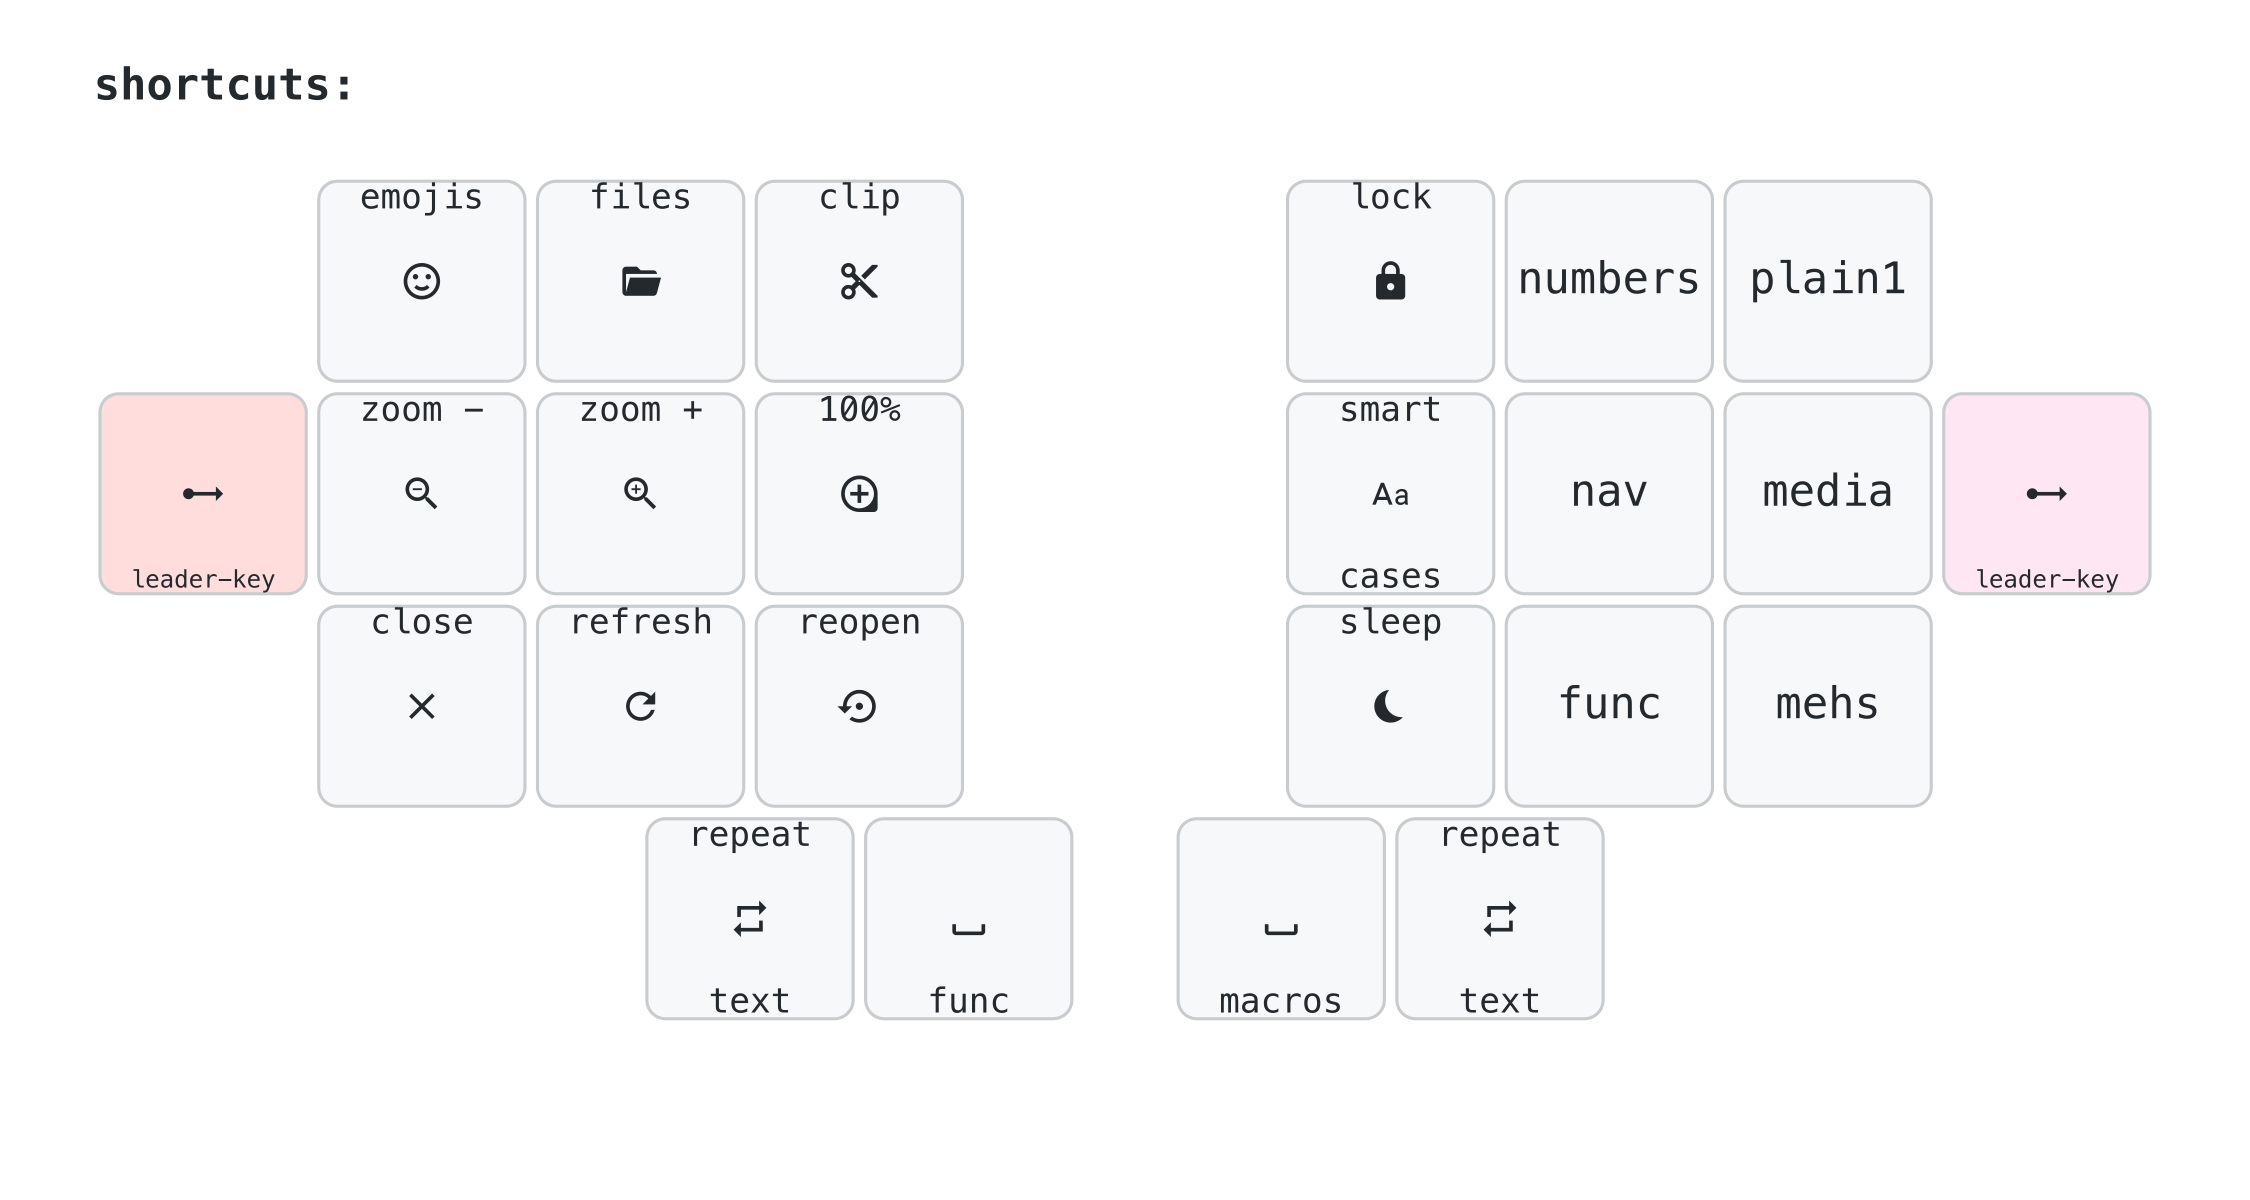
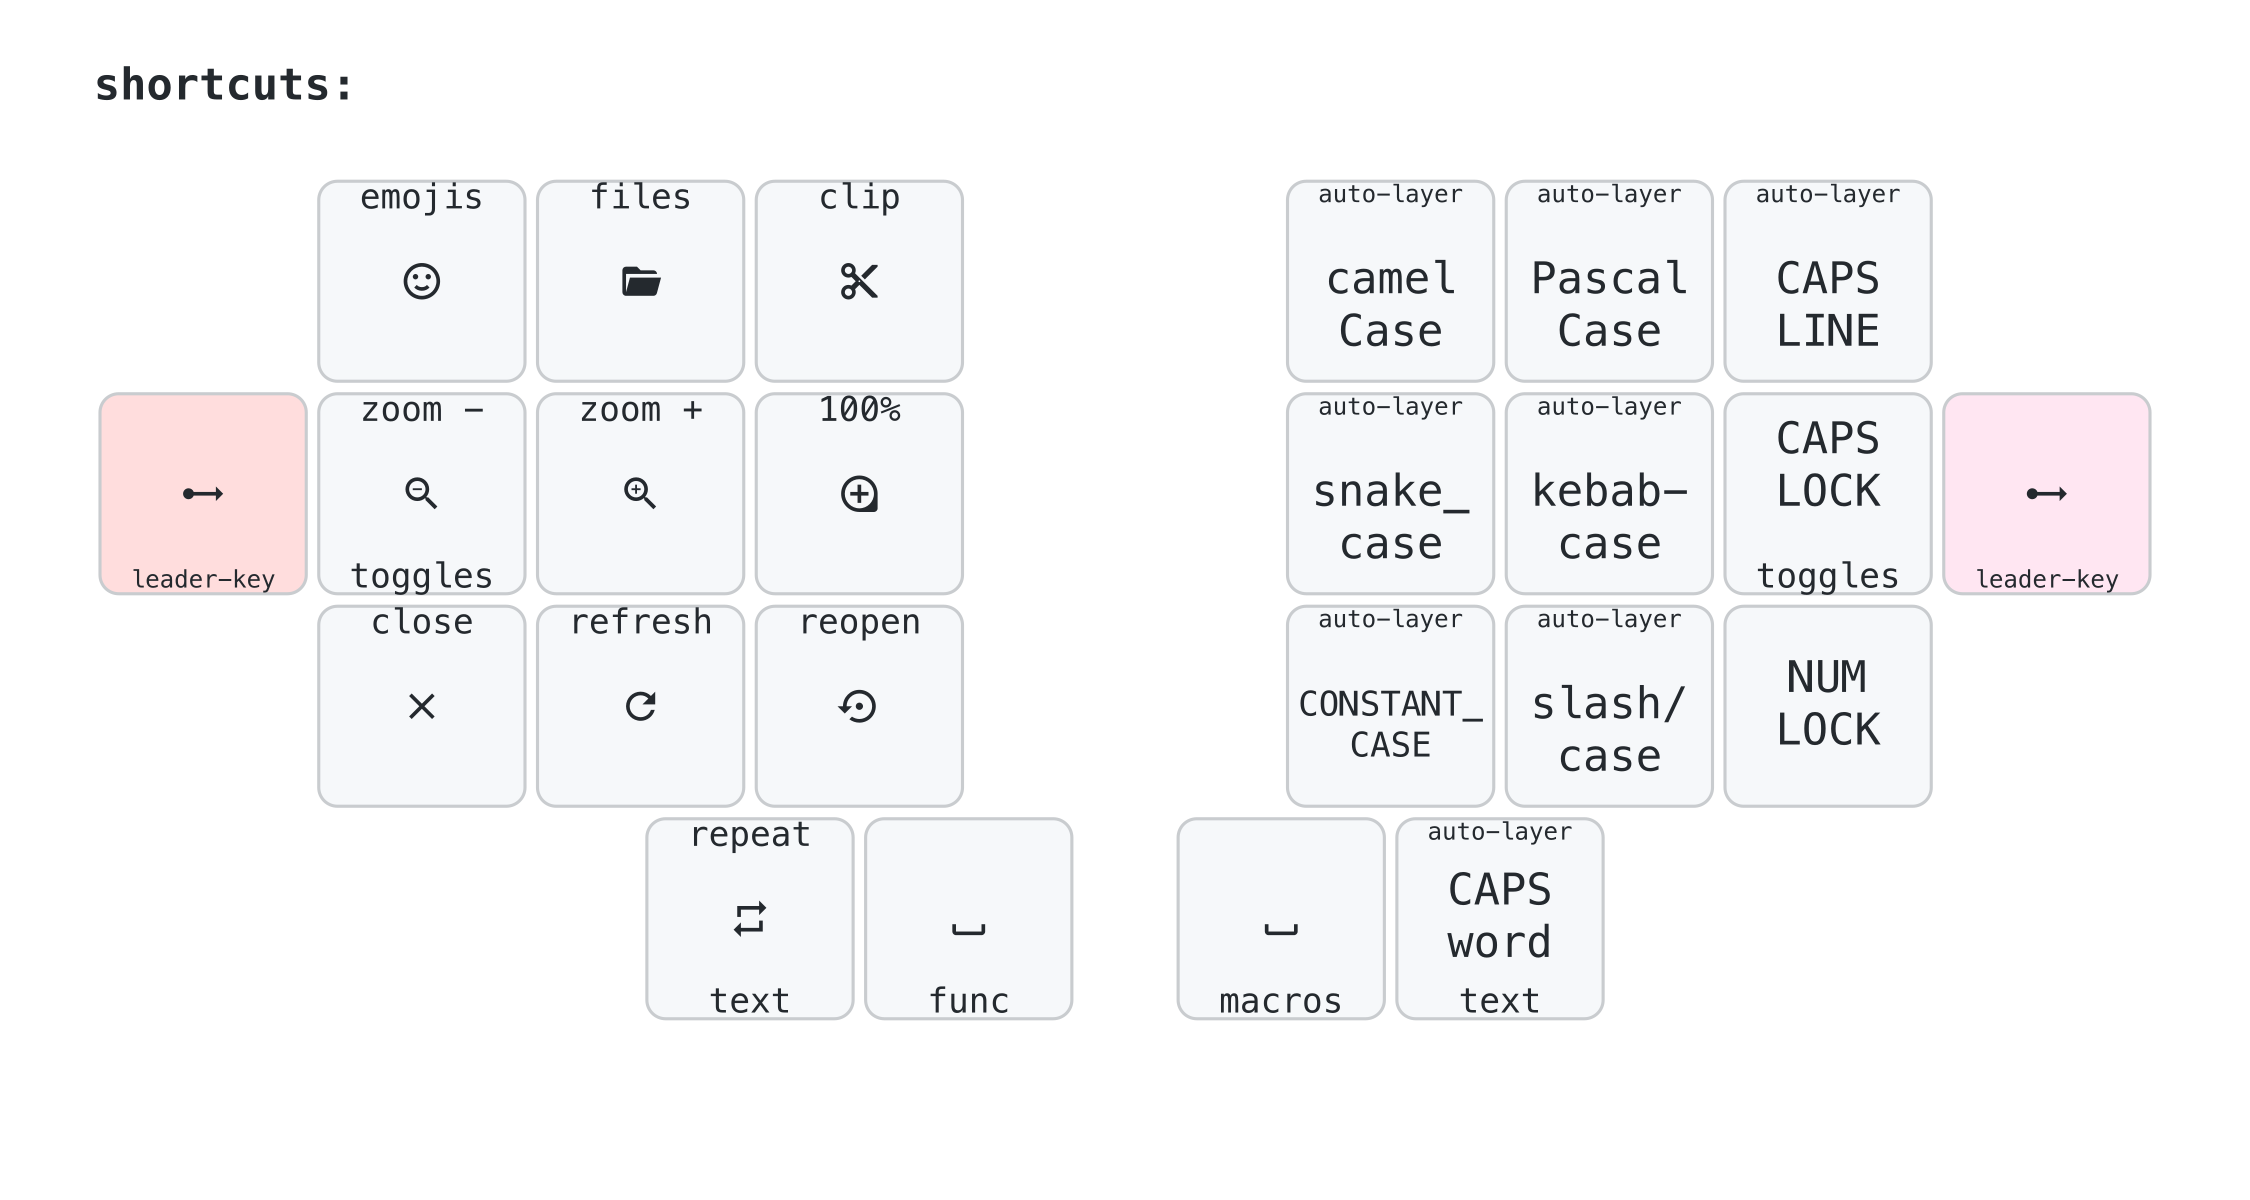
simplify activation of smart cases

diff --git a/docs/index.pt.md b/docs/index.pt.md
@@ -127,7 +127,7 @@ Devido a uma limitação do ZMK, uma *camada aderente* não funciona bem em conj
 
 ### CAPS word e CAPS LINE
 
-*CAPS word* é um comportamento que funciona como o Caps Lock tradicional, mas será desativado automaticamente quando a palavra atual terminar. Pode ser ativado apertando duas vezes na tecla *Shift Aderente* ou através da Camada *cases*.
+*CAPS word* é um comportamento que funciona como o Caps Lock tradicional, mas será desativado automaticamente quando a palavra atual terminar. Pode ser ativado apertando duas vezes na tecla *Shift Aderente* ou através da Camada *shortcuts*.
 
 *CAPS LINE* está entre o *CAPS word* e o Caps Lock tradicional, pois também será desativado automaticamente, mas apenas quando a linha atual terminar, geralmente com a tecla Enter.
 
@@ -208,8 +208,6 @@ Nesta camada, ou enquanto segura *meh* na camada base, acessar a versão Hyper d
 
 Segurar qualquer uma das teclas mindinhas ativará a camada de *atalhos*, que dá acesso a atalhos comuns como abrir o explorador de arquivos, tirar uma captura de tela e gerenciar o zoom e as abas em um navegador.
 
-Também permitirá que algumas camadas sejam ativadas permanentemente, como as camadas de *números*, *navegação* e *mídia*.
-
 ![img](img/diagrams/shortcuts.png)
 
 ### Combos de Atalhos Comuns
@@ -219,6 +217,16 @@ Atalhos comuns também podem ser ativados usando combos, na maioria das camadas.
 Eles permitem ações como copiar, colar, selecionar tudo, enter, tab, entre outras.
 
 ![img](img/diagrams/shortcutcombos.png)
+
+### Capitalização Inteligente
+
+Capitalizações Inteligentes são modos de digitação especiais onde o `espaço` é substituído por `-` ou `_`, por exemplo, para digitar coisas como nomes de métodos, nomes de variáveis, nomes de constantes e assim por diante, suportando as capitalizações mais comuns, como CONSTANT_CASE, kebab-case, camelCase, PascalCase e slash/case.
+
+Quando uma Capitalização Inteligente está ativa, pressionar espaço duas vezes seguidas a desativará, e o segundo espaço será ignorado.
+
+As Capitalizações Inteligentes também estão disponíveis através da camada *shortcuts*.
+
+![img](img/diagrams/shortcuts.png)
 
 ### Atalhos de Navegação
 
@@ -238,12 +246,6 @@ Sempre que possível, uso os atalhos padrão em meus teclados, mas em alguns cas
 
 No MacOS, eu uso uma combinação de [Hammerspoon](https://www.hammerspoon.org/) e [Better Touch Tool](https://folivora.ai/) para interceptar os atalhos enviados pelos meus teclados para o host. Linux e Windows são menos usados, então eu apenas mapeio alguns atalhos lá.
 
-### Macros
-
-Há uma camada *macros*, dedicada a Macros que dão acesso a blocos de texto e comandos recorrentes.
-
-![img](img/diagrams/macros.png)
-
 ### Leader Key
 
 A *Leader Key* está disponível através de um módulo externo, [zmk-leader-key](https://github.com/urob/zmk-leader-key), e permite que macros sejam acionadas através de uma sequência de teclas.
@@ -251,6 +253,18 @@ A *Leader Key* está disponível através de um módulo externo, [zmk-leader-key
 A *Leader Key* está disponível na camada de *atalhos*.
 
 ![img](img/diagrams/shortcuts.png)
+
+## Toggles
+
+A partir da camada de *shortcuts*, a camada de *toggles* pode ser ativada. Ela permite que algumas camadas sejam ativadas permanentemente, como as camadas de *numbers*, *nav* e *media*.
+
+Esta camada também oferece atalhos convenientes para *lock* o computador ou colocá-lo em *sleep*.
+
+## Macros
+
+Há uma camada *macros*, dedicada a Macros que dão acesso a blocos de texto e comandos recorrentes.
+
+![img](img/diagrams/macros.png)
 
 ## Navegação
 
@@ -365,9 +379,9 @@ Na camada de *símbolos*, muitos símbolos foram posicionados considerando como 
 
 ![img](img/diagrams/symbols.png)
 
-E, finalmente, existem algumas macros definidas especificamente para o VIM na minha camada *cases*, também fáceis de acionar usando apenas a mão direita.
+E, finalmente, existem algumas macros definidas especificamente para o VIM na minha camada *macros*, também fáceis de acionar usando apenas a mão direita.
 
-![img](img/diagrams/cases.png)
+![img](img/diagrams/macros.png)
 
 ### Navegação de Diretório
 
@@ -386,16 +400,6 @@ Meus atalhos mais usados no IntelliJ IDEA foram remapeados para usar também os 
 
 ![img](img/diagrams/coding-mehs.png)
 
-### Capitalização Inteligente
-
-Capitalizações Inteligentes são modos de digitação especiais onde o `espaço` é substituído por `-` ou `_`, por exemplo, para digitar coisas como nomes de métodos, nomes de variáveis, nomes de constantes e assim por diante, suportando as capitalizações mais comuns, como CONSTANT_CASE, kebab-case, camelCase, PascalCase e slash/case.
-
-As Capitalizações Inteligentes estão disponíveis através da camada *cases* e podem ser ativadas segurando a principal tecla do polegar direito e a tecla mindinha direita e apertando na tecla equivalente do lado esquerdo. Esses comportamentos foram projetados para serem rápidos de ativar.
-
-Quando uma Capitalização Inteligente está ativa, pressionar espaço duas vezes seguidas a desativará, e o segundo espaço será ignorado.
-
-![img](img/diagrams/cases.png)
-
 # Geral
 
 ## Modo Pânico
@@ -412,7 +416,7 @@ Os controles de Bluetooth estão disponíveis na camada de funções e permitem 
 
 A maioria das minhas placas tem um botão de reset físico de fácil acesso, mas nem todas. E mesmo para aquelas, às vezes será mais fácil usar um atalho para colocar a placa em modo bootloader para atualizar seu keymap (algo que faço algumas vezes por semana).
 
-Este atalho do bootloader deve estar disponível independentemente em ambas as metades da placa e não deve ser fácil de acionar por acidente, então eu os coloquei em um segundo polegar de uma camada que é ativada segurando o outro polegar e a tecla mindinha do mesmo lado. Essas camadas são as camadas *func* e *cases*.
+Este atalho do bootloader deve estar disponível independentemente em ambas as metades da placa e não deve ser fácil de acionar por acidente, então eu os coloquei em um segundo polegar de uma camada que é ativada segurando o outro polegar e a tecla mindinha do mesmo lado. Essas camadas são as camadas *func* e *macros*.
 
 ![img](img/diagrams/boot.png)
 

diff --git a/docs/index.md b/docs/index.md
@@ -127,7 +127,7 @@ Due to a limitation of ZMK, a *sticky layer* does not work well in conjunction w
 
 ### CAPS word and CAPS LINE
 
-*CAPS word* is a behavior that works like traditional Caps Lock, but it will be automatically deactivated when the current word ends. It can be activated by double-tapping the Sticky Shift key or through the Cases Layer.
+*CAPS word* is a behavior that works like traditional Caps Lock, but it will be automatically deactivated when the current word ends. It can be activated by double-tapping the Sticky Shift key or through the *shortcuts* Layer.
 
 *CAPS LINE* is between *CAPS word* and the traditional Caps Lock, since it will also be automatically deactivated but only when the current line ends, usually with the Return key.
 
@@ -208,8 +208,6 @@ In this layer, or while holding *meh* in the base layer, accessing the Hyper ver
 
 Holding any of the pinky keys will activate the *shortcuts* layer, which gives access to common shortcuts like opening the file explorer, taking a screenshot, and managing zoom and tabs in a browser.
 
-It will also allow some layers to be toggled on permanently, like the *numbers*, *nav*, and *media* layers.
-
 ![img](img/diagrams/shortcuts.png)
 
 ### Common Shortcuts Combos
@@ -219,6 +217,16 @@ Common shortcuts can also be activated using combos, in most layers. These combo
 They allow actions like copy, paste, select all, enter, tab, among others.
 
 ![img](img/diagrams/shortcutcombos.png)
+
+### Smart Cases
+
+Smart Cases are special typing modes where the `space` is replaced by `-` or `_`, for example, to type things like method names, variable names, constant names, and so on, supporting the most common casings, like CONSTANT_CASE, kebab-case, camelCase, PascalCase, and slash/case.
+
+When a Smart Case is activated, tapping space twice in a row will deactivate it, and the second space will be ignored.
+
+Smart Cases are also available through the *shortcuts* layer.
+
+![img](img/diagrams/shortcuts.png)
 
 ### Navigation Shortcuts
 
@@ -238,12 +246,6 @@ Whenever possible, I use the standard shortcuts in my keyboards, but in some cas
 
 In MacOS, I use a combination of [Hammerspoon](https://www.hammerspoon.org/) and [Better Touch Tool](https://folivora.ai/) to intercept the shortcuts sent by my keyboards to the host. Linux and Windows are less used, so I only map a few shortcuts there.
 
-### Macros
-
-There is a *macros* layer dedicated to Macros, which will give access to recurrent text blocks and commands.
-
-![img](img/diagrams/macros.png)
-
 ### Leader Key
 
 *Leader Key* is available through an external module, [zmk-leader-key](https://github.com/urob/zmk-leader-key), and allows macros to be triggered through a sequence of keystrokes.
@@ -251,6 +253,18 @@ There is a *macros* layer dedicated to Macros, which will give access to recurre
 The *Leader Key* is placed in the *shortcuts* layer.
 
 ![img](img/diagrams/shortcuts.png)
+
+## Toggles
+
+From the *shortcuts* layer, the *toggles* layer can be activated. It allows some layers to be toggled on permanently, like the *numbers*, *nav*, and *media* layers.
+
+This layer will also give convenient shortcuts to *lock* the computer or put it to *sleep*.
+
+## Macros
+
+There is a *macros* layer dedicated to Macros, which will give access to recurrent text blocks and commands.
+
+![img](img/diagrams/macros.png)
 
 ## Navigation
 
@@ -365,9 +379,9 @@ In the *symbols* layer, many symbols were positioned considering how they are us
 
 ![img](img/diagrams/symbols.png)
 
-And finally, there are a few macros defined specifically for VIM in my *cases* layer, also easy to trigger using only my right hand.
+And finally, there are a few macros defined specifically for VIM in my *macros* layer, also easy to trigger using only my right hand.
 
-![img](img/diagrams/cases.png)
+![img](img/diagrams/macros.png)
 
 ### Directory Navigation
 
@@ -386,16 +400,6 @@ My most used shortcuts in IntelliJ IDEA were remapped to use Meh and Hyper short
 
 ![img](img/diagrams/coding-mehs.png)
 
-### Smart Cases
-
-Smart Cases are special typing modes where the `space` is replaced by `-` or `_`, for example, to type things like method names, variable names, constant names, and so on, supporting the most common casings, like CONSTANT_CASE, kebab-case, camelCase, PascalCase, and slash/case.
-
-Smart Cases are available through the *cases* layer and can be activated by holding both the right home thumb key and the right pinky key and tapping the equivalent key on the left side. It is designed to be fast to activate.
-
-When a Smart Case is activated, tapping space twice in a row will deactivate it, and the second space will be ignored.
-
-![img](img/diagrams/cases.png)
-
 # General
 
 ## Panic Mode
@@ -412,7 +416,7 @@ Bluetooth controls are available in the functions layer and allow swapping betwe
 
 Most of my boards have an easily accessible physical reset button, but not all of them. And even for those, sometimes it will be easier to use a shortcut to put the board in bootloader mode to update its keymap (something I do a few times a week).
 
-This bootloader shortcut must be available independently in both halves of the board and should not be easy to trigger by accident, so I put them in a second thumb of a layer that is activated by holding both the other thumb and the pinky key on the same side. Those layers are the *func* and *cases* layers.
+This bootloader shortcut must be available independently in both halves of the board and should not be easy to trigger by accident, so I put them in a second thumb of a layer that is activated by holding both the other thumb and the pinky key on the same side. Those layers are the *func* and *macros* layers.
 
 ![img](img/diagrams/boot.png)
 
